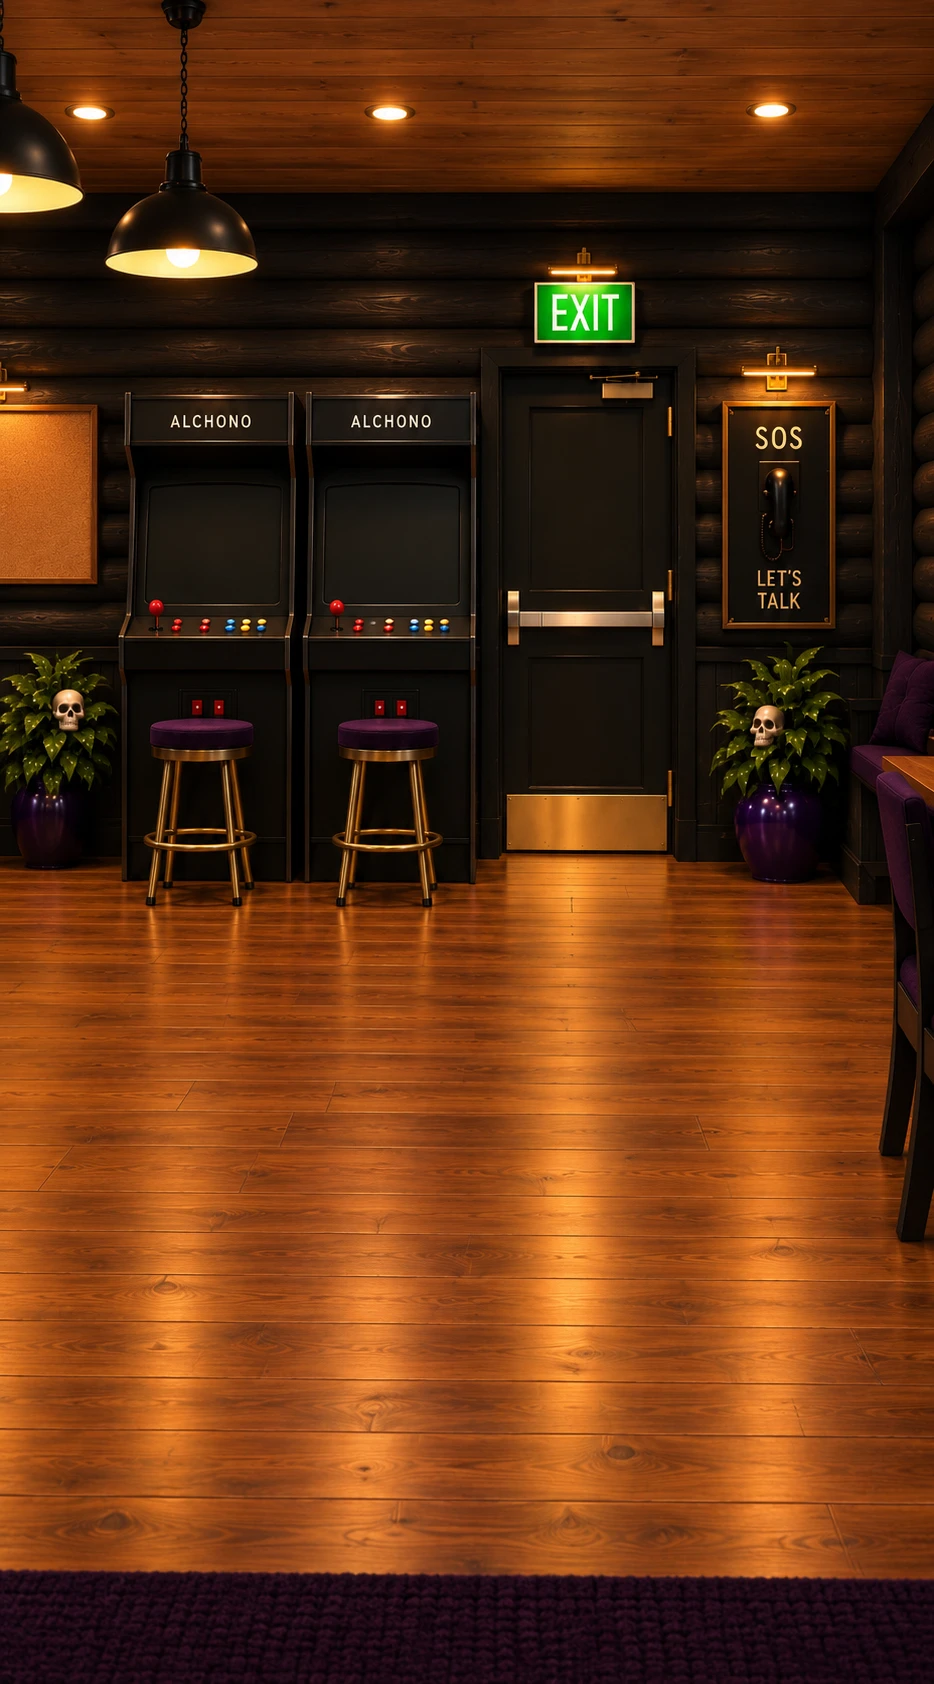
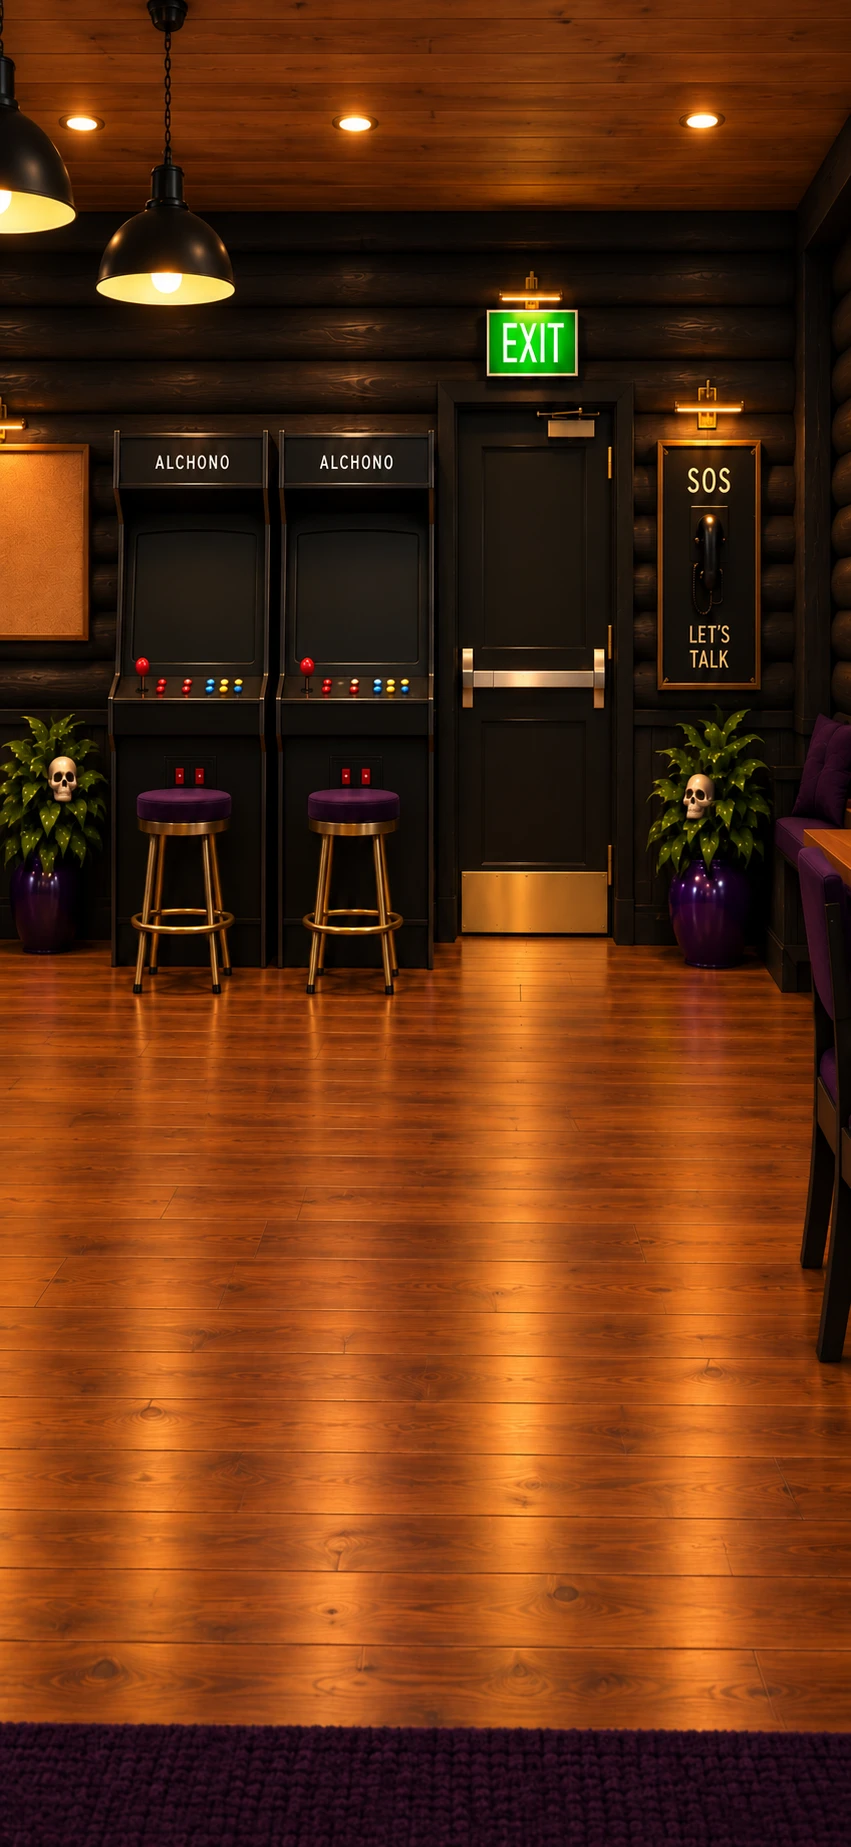
art: tall 851x1847 redraws (5 of 8) — writing, games room x3, me front
Full-bleed, no more side-crop. Dims restored to 851x1847.

Claude-Session: https://claude.ai/code/session_01KKhQMghLUspva6Yzs31jQ3

diff --git a/src/data/hubScene.ts b/src/data/hubScene.ts
@@ -283,8 +283,8 @@ export const HUB_NODES: Record<string, HubNode> = {
     id: "writing_room",
     title: "Writing Room",
     image: require("../../assets/scenes/writing_room.png"),
-    imgW: 934,
-    imgH: 1684,
+    imgW: 851,
+    imgH: 1847,
     fit: "screen",
     back: "front",
     hotspots: [
@@ -310,8 +310,8 @@ export const HUB_NODES: Record<string, HubNode> = {
     id: "arcade",
     title: "Games Room",
     image: require("../../assets/scenes/arcade_front.png"),
-    imgW: 934,
-    imgH: 1684,
+    imgW: 851,
+    imgH: 1847,
     fit: "screen",
     left: "arcade_left",
     right: "arcade_right",
@@ -332,8 +332,8 @@ export const HUB_NODES: Record<string, HubNode> = {
     id: "arcade_left",
     title: "Games Room",
     image: require("../../assets/scenes/arcade_left.png"),
-    imgW: 934,
-    imgH: 1684,
+    imgW: 851,
+    imgH: 1847,
     fit: "screen",
     right: "arcade",
     back: "right",
@@ -348,8 +348,8 @@ export const HUB_NODES: Record<string, HubNode> = {
     id: "arcade_right",
     title: "Games Room",
     image: require("../../assets/scenes/arcade_right.png"),
-    imgW: 934,
-    imgH: 1684,
+    imgW: 851,
+    imgH: 1847,
     fit: "screen",
     left: "arcade",
     back: "right",
@@ -439,8 +439,8 @@ export const HUB_NODES: Record<string, HubNode> = {
     id: "me_front",
     title: "Me",
     image: require("../../assets/scenes/me_front.png"),
-    imgW: 934,
-    imgH: 1684,
+    imgW: 851,
+    imgH: 1847,
     fit: "screen",
     // Corridor: only turn LEFT to walk deeper; back → the lobby.
     left: "me_left",
